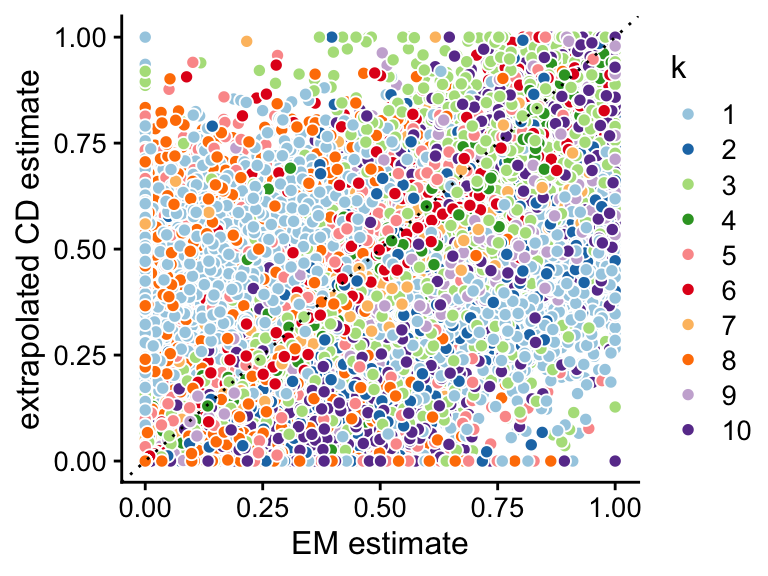
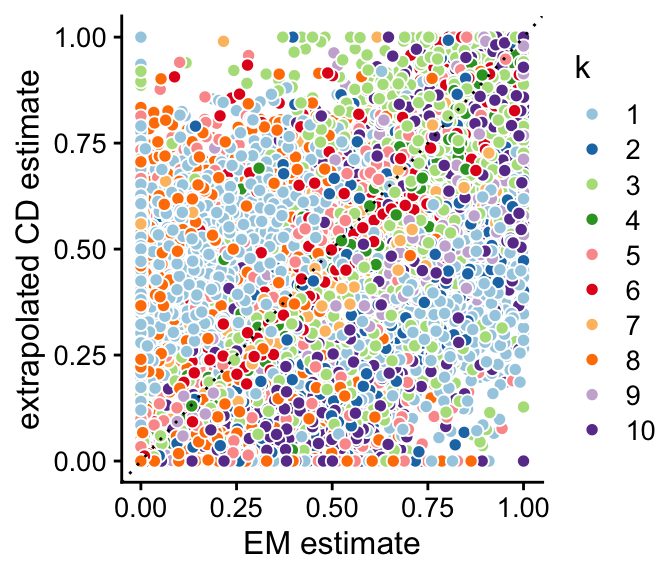
Adjusted scatterplots in assess_fits_newsgroups analysis.

diff --git a/docs/assess_fits_newsgroups.html b/docs/assess_fits_newsgroups.html
@@ -414,16 +414,16 @@ This reproducible <a href="http://rmarkdown.rstudio.com">R Markdown</a> analysis
 <div class="panel panel-default">
 <div class="panel-heading">
 <p class="panel-title">
-<a data-toggle="collapse" data-parent="#workflowr-checks" href="#strongRepositoryversionstrongahrefhttpsgithubcomstephenslabfastTopicsexperimentstreeb37146b1fdb33581ad450207c08e384c07bdac71targetblankb37146ba"> <span class="glyphicon glyphicon-ok text-success" aria-hidden="true"></span> <strong>Repository version:</strong> <a href="https://github.com/stephenslab/fastTopics-experiments/tree/b37146b1fdb33581ad450207c08e384c07bdac71" target="_blank">b37146b</a> </a>
+<a data-toggle="collapse" data-parent="#workflowr-checks" href="#strongRepositoryversionstrongahrefhttpsgithubcomstephenslabfastTopicsexperimentstree8f157b4c9557147020937c40e40c6efbf8342f1dtargetblank8f157b4a"> <span class="glyphicon glyphicon-ok text-success" aria-hidden="true"></span> <strong>Repository version:</strong> <a href="https://github.com/stephenslab/fastTopics-experiments/tree/8f157b4c9557147020937c40e40c6efbf8342f1d" target="_blank">8f157b4</a> </a>
 </p>
 </div>
[2 lines of base64/hex data omitted]
 <div class="panel-body">
 <p>
 Great! You are using Git for version control. Tracking code development and connecting the code version to the results is critical for reproducibility.
 </p>
 <p>
-The results in this page were generated with repository version <a href="https://github.com/stephenslab/fastTopics-experiments/tree/b37146b1fdb33581ad450207c08e384c07bdac71" target="_blank">b37146b</a>. See the <em>Past versions</em> tab to see a history of the changes made to the R Markdown and HTML files.
+The results in this page were generated with repository version <a href="https://github.com/stephenslab/fastTopics-experiments/tree/8f157b4c9557147020937c40e40c6efbf8342f1d" target="_blank">8f157b4</a>. See the <em>Past versions</em> tab to see a history of the changes made to the R Markdown and HTML files.
 </p>
 <p>
 Note that you need to be careful to ensure that all relevant files for the analysis have been committed to Git prior to generating the results (you can use <code>wflow_publish</code> or <code>wflow_git_commit</code>). workflowr only checks the R Markdown file, but you know if there are other scripts or data files that it depends on. Below is the status of the Git repository when the results were generated:
@@ -440,6 +440,7 @@ Ignored files:
     Ignored:    output/pbmc68k/fits-pbmc68k.RData
 
 Untracked files:
+    Untracked:  .DS_Store
     Untracked:  plots/
 
 </code></pre>
@@ -479,6 +480,40 @@ Message
 </tr>
 </thead>
 <tbody>
+<tr>
+<td>
+Rmd
+</td>
+<td>
+<a href="https://github.com/stephenslab/fastTopics-experiments/blob/8f157b4c9557147020937c40e40c6efbf8342f1d/analysis/assess_fits_newsgroups.Rmd" target="_blank">8f157b4</a>
+</td>
+<td>
+Peter Carbonetto
+</td>
+<td>
+2021-04-09
+</td>
+<td>
+workflowr::wflow_publish(“assess_fits_newsgroups.Rmd”)
+</td>
+</tr>
+<tr>
+<td>
+html
+</td>
+<td>
+<a href="https://rawcdn.githack.com/stephenslab/fastTopics-experiments/d1dadf877503b275a9a6a3a9454b99d028efc3f5/docs/assess_fits_newsgroups.html" target="_blank">d1dadf8</a>
+</td>
+<td>
+Peter Carbonetto
+</td>
+<td>
+2021-04-09
+</td>
+<td>
+Added loadings scatterplots to aassess_fits_newsgroups analysis.
+</td>
+</tr>
 <tr>
 <td>
 Rmd
@@ -859,7 +894,44 @@ p1 &lt;- ggplot(pdat,aes(x = x,y = y,fill = k)) +
   labs(x = &quot;EM estimate&quot;,y = &quot;extrapolated CD estimate&quot;) +
   theme_cowplot(font_size = 12)
 print(p1)</code></pre>
-<p><img src="figure/assess_fits_newsgroups.Rmd/loadings-scatterplot-k-9-1.png" width="384" style="display: block; margin: auto;" /></p>
+<p><img src="figure/assess_fits_newsgroups.Rmd/loadings-scatterplot-k-9-1.png" width="336" style="display: block; margin: auto;" /></p>
+<p>
+<button type="button" class="btn btn-default btn-xs btn-workflowr btn-workflowr-fig" data-toggle="collapse" data-target="#fig-loadings-scatterplot-k-9-1">
+Past versions of loadings-scatterplot-k-9-1.png
+</button>
+</p>
+<div id="fig-loadings-scatterplot-k-9-1" class="collapse">
+<div class="table-responsive">
+<table class="table table-condensed table-hover">
+<thead>
+<tr>
+<th>
+Version
+</th>
+<th>
+Author
+</th>
+<th>
+Date
+</th>
+</tr>
+</thead>
+<tbody>
+<tr>
+<td>
+<a href="https://github.com/stephenslab/fastTopics-experiments/blob/d1dadf877503b275a9a6a3a9454b99d028efc3f5/docs/figure/assess_fits_newsgroups.Rmd/loadings-scatterplot-k-9-1.png" target="_blank">d1dadf8</a>
+</td>
+<td>
+Peter Carbonetto
+</td>
+<td>
+2021-04-09
+</td>
+</tr>
+</tbody>
+</table>
+</div>
+</div>
 <p>An example in which the EM and (extrapolated) CD estimates greatly differ:</p>
 <pre class="r"><code>fit1 &lt;- fits[[&quot;fit-newsgroups-em-k=10&quot;]]
 fit2 &lt;- fits[[&quot;fit-newsgroups-scd-ex-k=10&quot;]]
@@ -875,7 +947,44 @@ p2 &lt;- ggplot(pdat,aes(x = x,y = y,fill = k)) +
   labs(x = &quot;EM estimate&quot;,y = &quot;extrapolated CD estimate&quot;) +
   theme_cowplot(font_size = 12)
 print(p2)</code></pre>
-<p><img src="figure/assess_fits_newsgroups.Rmd/loadings-scatterplot-k-10-1.png" width="384" style="display: block; margin: auto;" /></p>
+<p><img src="figure/assess_fits_newsgroups.Rmd/loadings-scatterplot-k-10-1.png" width="336" style="display: block; margin: auto;" /></p>
+<p>
+<button type="button" class="btn btn-default btn-xs btn-workflowr btn-workflowr-fig" data-toggle="collapse" data-target="#fig-loadings-scatterplot-k-10-1">
+Past versions of loadings-scatterplot-k-10-1.png
+</button>
+</p>
+<div id="fig-loadings-scatterplot-k-10-1" class="collapse">
+<div class="table-responsive">
+<table class="table table-condensed table-hover">
+<thead>
+<tr>
+<th>
+Version
+</th>
+<th>
+Author
+</th>
+<th>
+Date
+</th>
+</tr>
+</thead>
+<tbody>
+<tr>
+<td>
+<a href="https://github.com/stephenslab/fastTopics-experiments/blob/d1dadf877503b275a9a6a3a9454b99d028efc3f5/docs/figure/assess_fits_newsgroups.Rmd/loadings-scatterplot-k-10-1.png" target="_blank">d1dadf8</a>
+</td>
+<td>
+Peter Carbonetto
+</td>
+<td>
+2021-04-09
+</td>
+</tr>
+</tbody>
+</table>
+</div>
+</div>
 <br>
 <p>
 <button type="button" class="btn btn-default btn-workflowr btn-workflowr-sessioninfo" data-toggle="collapse" data-target="#workflowr-sessioninfo" style="display: block;">
